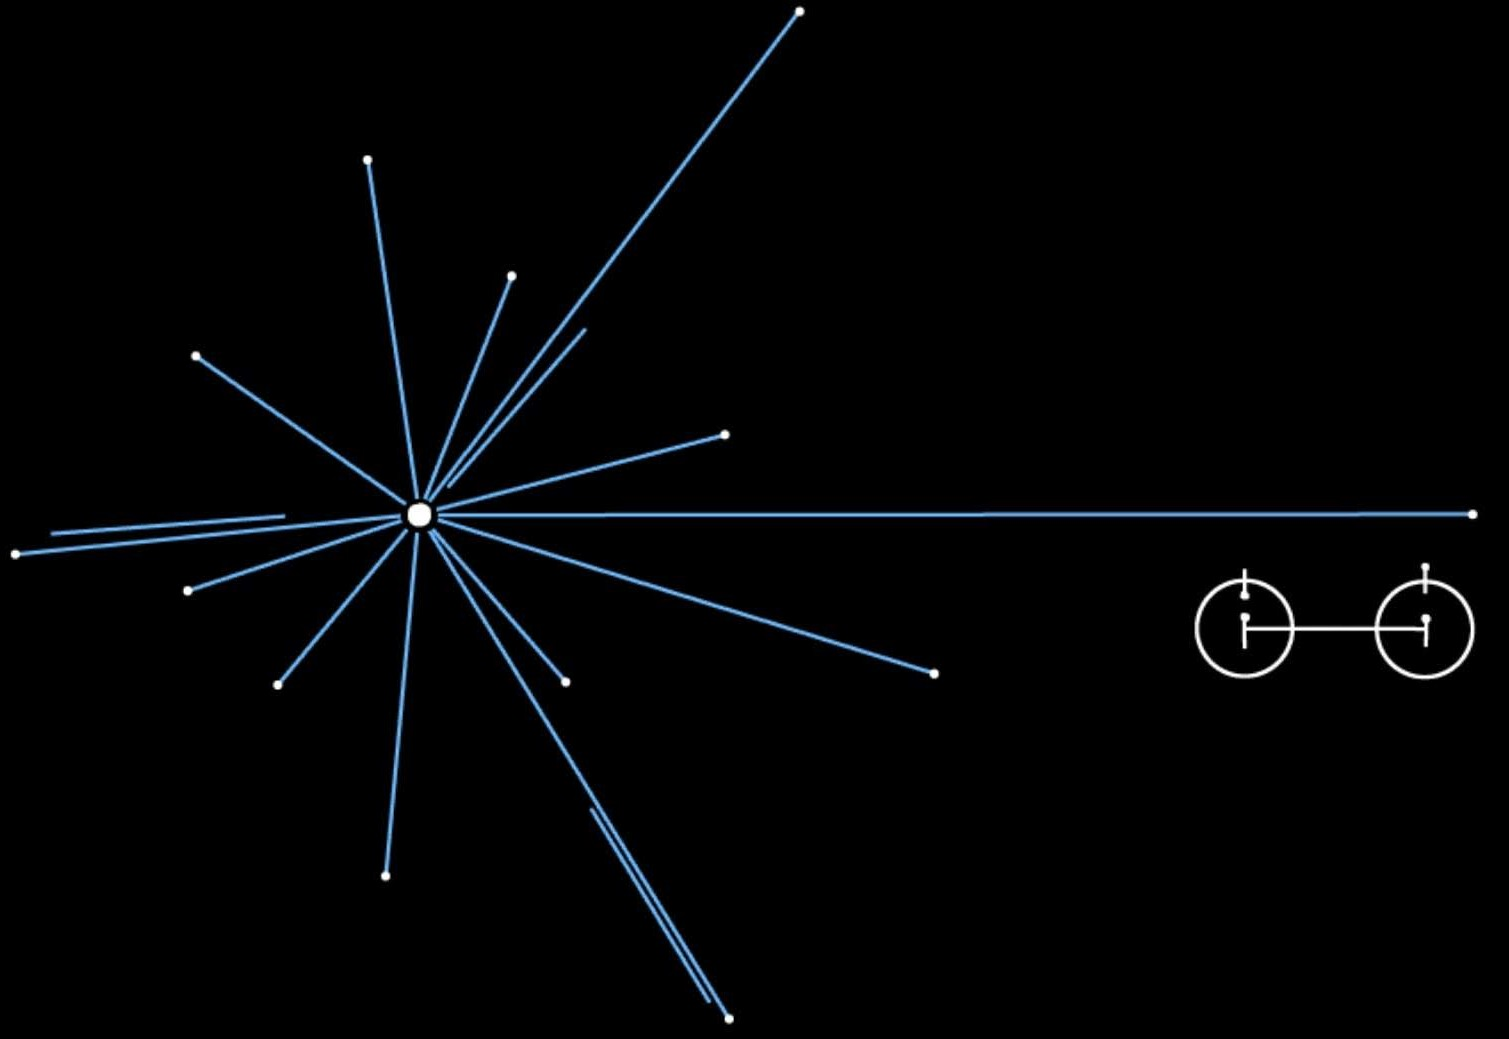
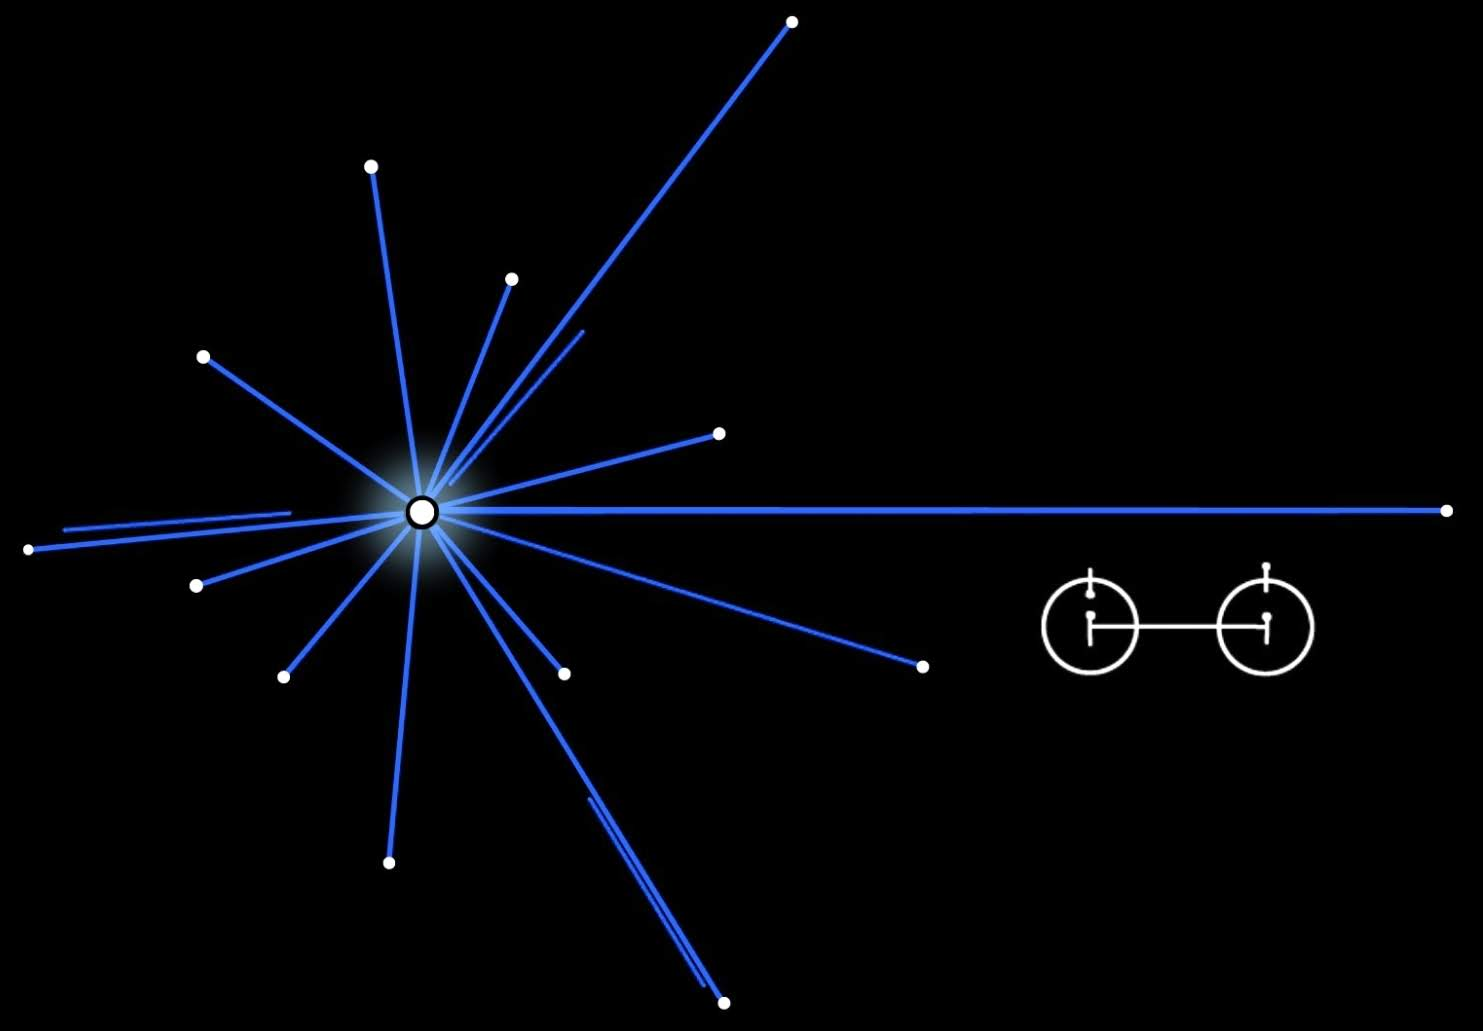
Better pulsar map from Medibang

diff --git a/client/pages/About.tsx b/client/pages/About.tsx
@@ -17,7 +17,7 @@ export function About() {
           <PicturePile pictures={pictures} />
         </div>
         <div className="grid col-span-2 pl-20 max-w-3xl text-lg md:text-xl leading-relaxed">
-          <div className="flex flex-col justify-center h-full pb-28">
+          <div className="flex flex-col justify-center h-full pb-36">
             <p className="mb-4">
               I’m Israel Trejo, currently a Senior Computer Science student at the University of Houston with a passion 
               for <span className="font-bold">Data Science</span> and <span className="font-bold">Software Engineering</span>. 
@@ -28,9 +28,9 @@ export function About() {
               My hobbies outside of tech include drawing comics, animating, playing the guitar and lifting weights at home.
             </p>
           </div>
-          {/* <div className="relative">
-            <img className="absolute bottom-[-60px] right-4 w-[370px] " src="/images/pulsar_map.jpg"/>
-          </div> */}
+          <div className="relative">
+            <img className="absolute bottom-[-60px] right-2 w-[380px] " src="/images/pulsar_map.jpg"/>
+          </div>
         </div>
       </div>
     </section>
